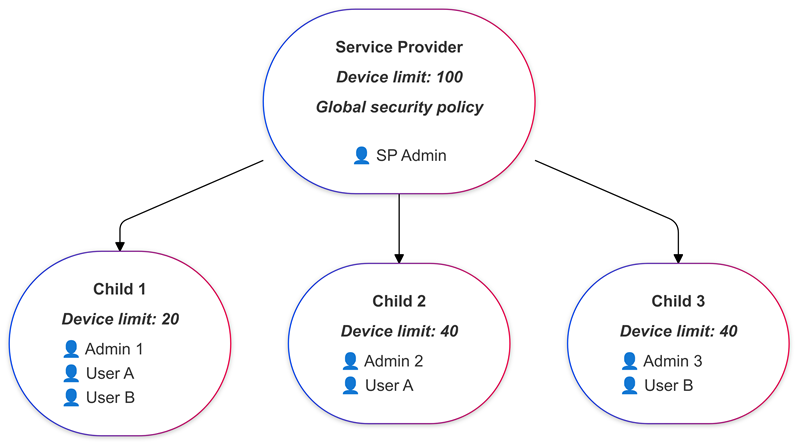
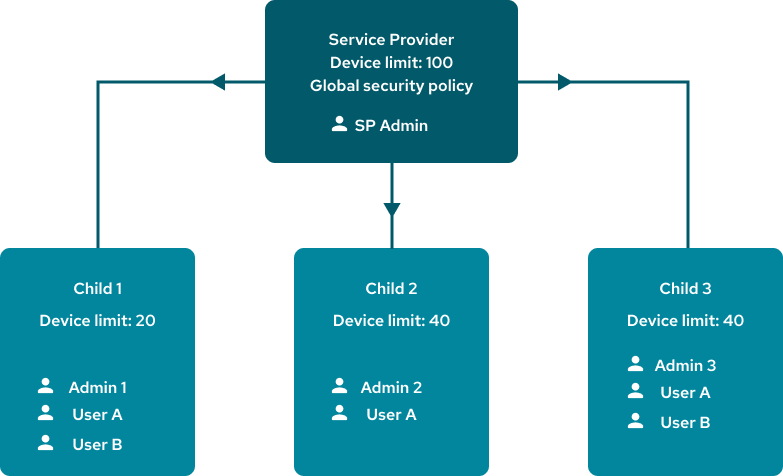
docs: Update image at Overview/multi-tenancy

diff --git a/02.Overview/13.Multi-Tenancy/docs.md b/02.Overview/13.Multi-Tenancy/docs.md
@@ -78,7 +78,7 @@ ensure that no test data interferes with production systems.
 
 ## Service Provider tenants
 
-![Service Provider](service-provider.png)
+![Service Provider](service-provider.png?sizes=783px)
 
 In Mender Server Enterprise, multi-tenancy is managed by a special type of tenant
 called the Service Provider tenant. 
